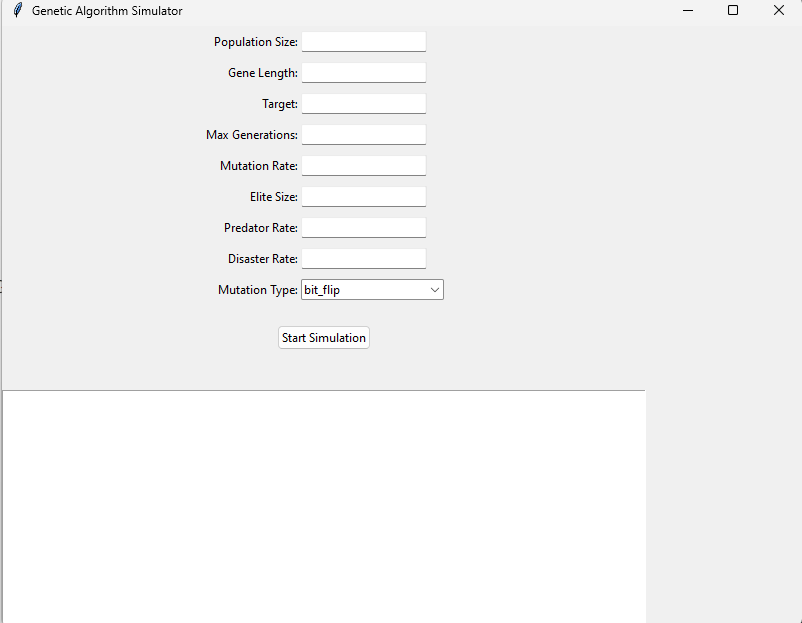
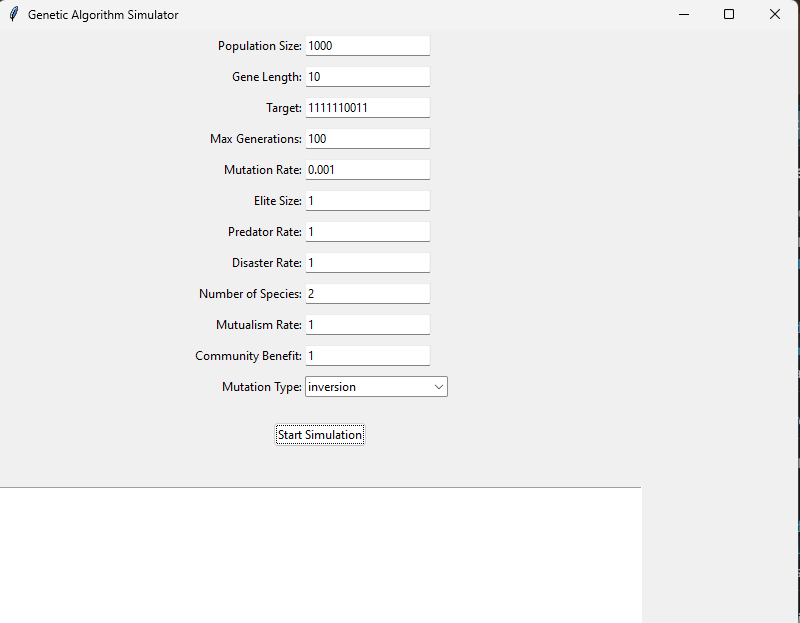
new features

diff --git a/genetic_algorithm_simulator.py b/genetic_algorithm_simulator.py
@@ -2,6 +2,9 @@ import random
 import tkinter as tk
 from tkinter import ttk
 import pygame
+import logging
+
+logging.basicConfig(filename='genetic_algorithm.log', level=logging.INFO)
 
 # Genetic Algorithm Functions
 def initialize_population(pop_size, gene_length):
@@ -9,6 +12,9 @@ def initialize_population(pop_size, gene_length):
 
 def fitness(individual, target):
     return sum(1 for i in range(len(individual)) if individual[i] == target[i])
+
+def adaptive_mutation_rate(generation, max_generations):
+    return max(0.01, 0.1 * (1 - generation / max_generations))
 
 def selection(population, fitness_scores):
     total_fitness = sum(fitness_scores)
@@ -21,15 +27,15 @@ def crossover(parent1, parent2, gene_length):
     child2 = parent2[:crossover_point] + parent1[crossover_point:]
     return child1, child2
 
+
 def communalism(population1, population2, community_benefit, gene_length):
     for i in range(len(population1)):
-        if random.random() < COMMUNITY_BENEFIT:
+        if random.random() < community_benefit:  # Use community_benefit
             fitness1 = fitness(population1[i], TARGET)
             fitness2 = fitness(random.choice(population2), TARGET)
             # Benefit from communalism
             population1[i] = mutation(population1[i], MUTATION_RATE, MUTATION_TYPE, gene_length)
     return population1
-
 def mutualism(population1, population2, mutualism_rate, gene_length):
     interactions = int(mutualism_rate * len(population1))
     for _ in range(interactions):
@@ -39,7 +45,6 @@ def mutualism(population1, population2, mutualism_rate, gene_length):
             # Benefit from mutualism
             population1.append(mutation(individual1, MUTATION_RATE, MUTATION_TYPE, gene_length))
     return population1
-
 def mutation(individual, mutation_rate, mutation_type, gene_length):
     if random.random() < mutation_rate:
         if mutation_type == 'bit_flip':
@@ -57,6 +62,22 @@ def elitism(population, fitness_scores, elite_size):
     elite = [population[i] for i in elite_indices]
     return elite
 
+def adjust_population(population, max_size, min_size):
+    if len(population) > max_size:
+        population = random.sample(population, max_size)
+    elif len(population) < min_size:
+        additional_individuals = initialize_population(min_size - len(population), len(population[0]))
+        population += additional_individuals
+    return population
+
+def tournament_selection(population, fitness_scores, tournament_size=5):
+    selected = []
+    for _ in range(len(population)):
+        tournament = random.sample(list(zip(population, fitness_scores)), tournament_size)
+        winner = max(tournament, key=lambda x: x[1])[0]
+        selected.append(winner)
+    return selected
+
 def predator(population, predator_rate):
     num_predators = int(predator_rate * len(population))
     population = random.sample(population, len(population) - num_predators)
@@ -67,62 +88,68 @@ def disaster(population, disaster_rate):
     population = random.sample(population, num_survivors)
     return population
 
-def genetic_algorithm(gui_callback, visual_callback, pop_size, gene_length, target, max_generations, mutation_rate, elite_size, predator_rate, disaster_rate, mutation_type, num_species, mutualism_rate, community_benefit):
-    species_populations = initialize_population(pop_size, gene_length, num_species)
+def genetic_algorithm(gui_callback, visual_callback, pop_size, gene_length, target, max_generations, mutation_rate, elite_size, predator_rate, disaster_rate, mutation_type, custom_fitness=None, num_species=1, mutualism_rate=0.0, community_benefit=0.0):
+    population = initialize_population(pop_size, gene_length)
     best_fitness = 0
     best_individual = None
 
     for generation in range(max_generations):
-        all_fitness_scores = []
-        for population in species_populations:
+        current_mutation_rate = adaptive_mutation_rate(generation, max_generations)
+        if custom_fitness:
+            fitness_scores = [custom_fitness(individual) for individual in population]
+        else:
             fitness_scores = [fitness(individual, target) for individual in population]
-            all_fitness_scores.extend(fitness_scores)
-            best_index = fitness_scores.index(max(fitness_scores))
-            if fitness_scores[best_index] > best_fitness:
-                best_fitness = fitness_scores[best_index]
-                best_individual = population[best_index]
+        
+        best_index = fitness_scores.index(max(fitness_scores))
+        if fitness_scores[best_index] > best_fitness:
+            best_fitness = fitness_scores[best_index]
+            best_individual = population[best_index]
 
-        gui_callback(f"Generation {generation}, Best fitness: {best_fitness}, Individual: {best_individual}")
-        visual_callback(all_fitness_scores)
+        log_message = f"Generation {generation}, Best fitness: {best_fitness}, Individual: {best_individual}"
+        logging.info(log_message)
+        gui_callback(log_message)
+        visual_callback(fitness_scores)
 
         if best_fitness == gene_length:
             break
 
-        for i in range(num_species):
-            species_populations[i] = elitism(species_populations[i], all_fitness_scores, elite_size)
-            species_populations[i] = selection(species_populations[i], all_fitness_scores)
-            offspring = []
-            for _ in range(len(species_populations[i]) // 2):
-                parent1, parent2 = random.sample(species_populations[i], 2)
-                child1, child2 = crossover(parent1, parent2, gene_length)
-                offspring.append(mutation(child1, mutation_rate, mutation_type, gene_length))
-                offspring.append(mutation(child2, mutation_rate, mutation_type, gene_length))
-            species_populations[i] = species_populations[i][:len(species_populations[i]) - ELITE_SIZE] + offspring
+        elite = elitism(population, fitness_scores, elite_size)
+        population = tournament_selection(population, fitness_scores)
+        offspring = []
+        for _ in range(len(population) // 2):
+            parent1, parent2 = random.sample(population, 2)
+            child1, child2 = crossover(parent1, parent2, gene_length)
+            offspring.append(mutation(child1, current_mutation_rate, mutation_type, gene_length))
+            offspring.append(mutation(child2, current_mutation_rate, mutation_type, gene_length))
+        population = elite + offspring
 
-            if random.random() < predator_rate:
-                species_populations[i] = predator(species_populations[i], predator_rate)
-            if random.random() < disaster_rate:
-                species_populations[i] = disaster(species_populations[i], disaster_rate)
+        if num_species > 1:
+            # Apply communalism and mutualism if multiple species are involved
+            population = communalism(population, population, community_benefit, target, current_mutation_rate, mutation_type, gene_length)
+            population = mutualism(population, population, mutualism_rate, gene_length, target, current_mutation_rate, mutation_type)
 
-            for j in range(num_species):
-                if i != j:
-                    species_populations[i] = mutualism(species_populations[i], species_populations[j], mutualism_rate, gene_length)
-                    species_populations[i] = communalism(species_populations[i], species_populations[j], community_benefit, gene_length)
+        if random.random() < predator_rate:
+            population = predator(population, predator_rate)
+        if random.random() < disaster_rate:
+            population = disaster(population, disaster_rate)
+
+        population = adjust_population(population, max_size=pop_size, min_size=pop_size//2)
 
     return best_individual, best_fitness
 
 # Pygame Visualization
-class PygameVisualizer:
+class InteractivePygameVisualizer:
     def __init__(self, width=800, height=600):
         self.width = width
         self.height = height
         self.screen = None
+        self.running = True
 
     def start(self):
         pygame.init()
         self.screen = pygame.display.set_mode((self.width, self.height))
-        pygame.display.set_caption("Genetic Algorithm Visualizer")
-    
+        pygame.display.set_caption("Interactive Genetic Algorithm Visualizer")
+
     def stop(self):
         pygame.quit()
 
@@ -135,13 +162,18 @@ class PygameVisualizer:
             pygame.draw.rect(self.screen, (0, 255, 0), (i * bar_width, self.height - bar_height, bar_width, bar_height))
         pygame.display.flip()
 
+        # Event handling for interactivity
+        for event in pygame.event.get():
+            if event.type == pygame.QUIT:
+                self.running = False
+
 # GUI
 class GeneticAlgorithmGUI(tk.Tk):
     def __init__(self):
         super().__init__()
         self.title("Genetic Algorithm Simulator")
         self.geometry("800x600")
-        self.visualizer = PygameVisualizer()
+        self.visualizer = InteractivePygameVisualizer()  # Use InteractivePygameVisualizer instead
 
         self.create_widgets()
 
@@ -170,7 +202,7 @@ class GeneticAlgorithmGUI(tk.Tk):
         # Start button
         self.start_button = ttk.Button(self, text="Start Simulation", command=self.start_simulation)
         self.start_button.grid(row=12, column=0, columnspan=2, pady=20)
-        
+
         # Output text box
         self.output_text = tk.Text(self, wrap="word", height=20, width=80)
         self.output_text.grid(row=13, column=0, columnspan=2, pady=20)
@@ -179,7 +211,7 @@ class GeneticAlgorithmGUI(tk.Tk):
         tk.Label(self, text=label_text).grid(row=row, column=0, pady=5, sticky="e")
         entry = ttk.Entry(self)
         entry.grid(row=row, column=1, pady=5, sticky="w")
-        setattr(self, label_text.replace(" ", "_").lower()[:-1], entry)
+        setattr(self, label_text.replace(" ", "_").lower()[:-1], entry)  # Store the entry widget
         self.create_tooltip(entry, tooltip_text)
 
     def create_tooltip(self, widget, text):
@@ -212,7 +244,7 @@ class GeneticAlgorithmGUI(tk.Tk):
             elite_size = int(self.elite_size.get())
             predator_rate = float(self.predator_rate.get())
             disaster_rate = float(self.disaster_rate.get())
-            num_species = int(self.num_species.get())
+            num_species = int(self.num_species.get())  # Ensure num_species exists
             mutualism_rate = float(self.mutualism_rate.get())
             community_benefit = float(self.community_benefit.get())
             mutation_type = self.mutation_type_var.get()
@@ -223,38 +255,40 @@ class GeneticAlgorithmGUI(tk.Tk):
                 raise ValueError("Target must be a binary string.")
             if len(target) != gene_length:
                 raise ValueError("Target length must match gene length.")
-            
+
         except ValueError as e:
-            self.update_output(f"Invalid input: {e}")
-            return
+         self.update_output(f"Invalid input: {e}")
+         return
 
         self.start_button.config(state=tk.DISABLED)
         self.visualizer.start()
         self.update_output("Starting simulation...")
-        def run_genetic_algorithm():
-            best_individual, best_fitness = genetic_algorithm(
-                self.update_output,
-                self.visualizer.draw,
-                pop_size,
-                gene_length,
-                target,
-                max_generations,
-                mutation_rate,
-                elite_size,
-                predator_rate,
-                disaster_rate,
-                mutation_type,
-                num_species,
-                mutualism_rate,
-                community_benefit
-            )
-            self.update_output(f"\nFinal best individual: {best_individual}")
-            self.update_output(f"Final best fitness: {best_fitness}")
-            self.start_button.config(state=tk.NORMAL)
-            self.visualizer.stop()
 
-        self.after(100, run_genetic_algorithm)
+    def run_genetic_algorithm():
+        best_individual, best_fitness = genetic_algorithm(
+            self.update_output,
+            self.visualizer.draw,
+            pop_size,
+            gene_length,
+            target,
+            max_generations,
+            mutation_rate,
+            elite_size,
+            predator_rate,
+            disaster_rate,
+            mutation_type,
+            num_species,
+            mutualism_rate,
+            community_benefit
+        )
+        self.update_output(f"\nFinal best individual: {best_individual}")
+        self.update_output(f"Final best fitness: {best_fitness}")
+        self.start_button.config(state=tk.NORMAL)
+        self.visualizer.stop()
 
+        self.after(100, run_genetic_algorithm)   
+        
+    
     def update_output(self, message):
         self.output_text.insert(tk.END, message + "\n")
         self.output_text.see(tk.END)
